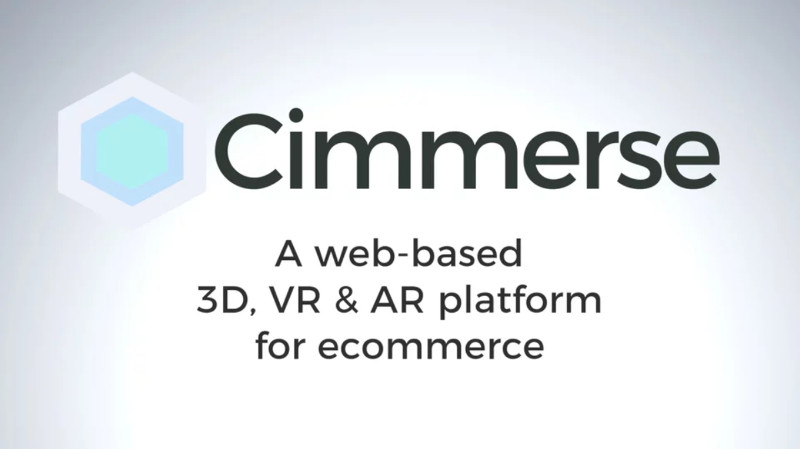
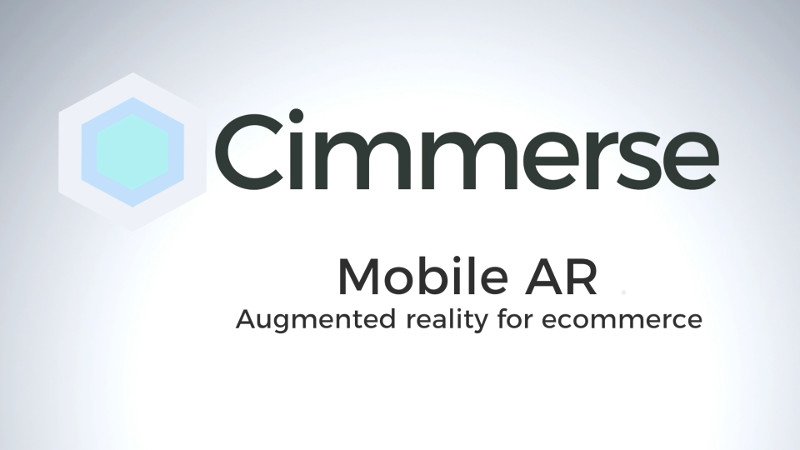
Updated 1 min video to newest version

diff --git a/src/components/VideoModal/VideoModal.jsx b/src/components/VideoModal/VideoModal.jsx
@@ -21,7 +21,7 @@ const VideoModal = ({ isOpen, onToggle }) => {
         <div className={styles.lityContainer}>
           <div className={styles.lityContent}>
             <div className={styles.lityIframeContainer}>
-              <iframe frameBorder="0" allowFullScreen src="https://player.vimeo.com/video/236880208?color=ffffff&autoplay=1"></iframe>
+              <iframe frameBorder="0" allowFullScreen src="https://player.vimeo.com/video/263871720?color=ffffff&autoplay=1"></iframe>
             </div>
           </div>
           <button className={styles.lityClose} type="button" aria-label="Close (Press escape to close)" onClick={onToggle}>×</button>
